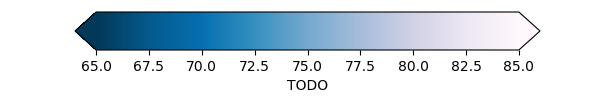
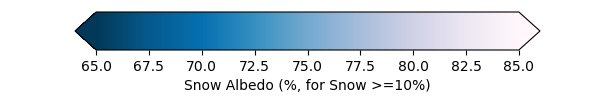
Apply correct labels to legends

Changed region(s): [[0.3, 0.78, 0.72, 0.9]]

diff --git a/scripts/make_legends.py b/scripts/make_legends.py
@@ -15,7 +15,7 @@ LEGEND_COLORBAR_BOTTOM = 0.5
 
 def legend_from_variable(variable_id: str, variable: dict) -> Path:
     """Write a legend based on `variable` and return its path."""
-    unit_of_measurement = variable['unit_of_measurement']
+    label = variable['label_map_legend']
     cmap_range = variable['colormap_value_range']
     # matplotlib colormaps use float values ranging [0.0, 1.0], but our JSON data uses
     # 8-bit RGB values [0, 255]
@@ -34,7 +34,7 @@ def legend_from_variable(variable_id: str, variable: dict) -> Path:
         mpl.cm.ScalarMappable(norm=norm, cmap=cmap),
         cax=ax,
         orientation='horizontal',
-        label=unit_of_measurement,
+        label=label,
         extend='both',
     )
 
